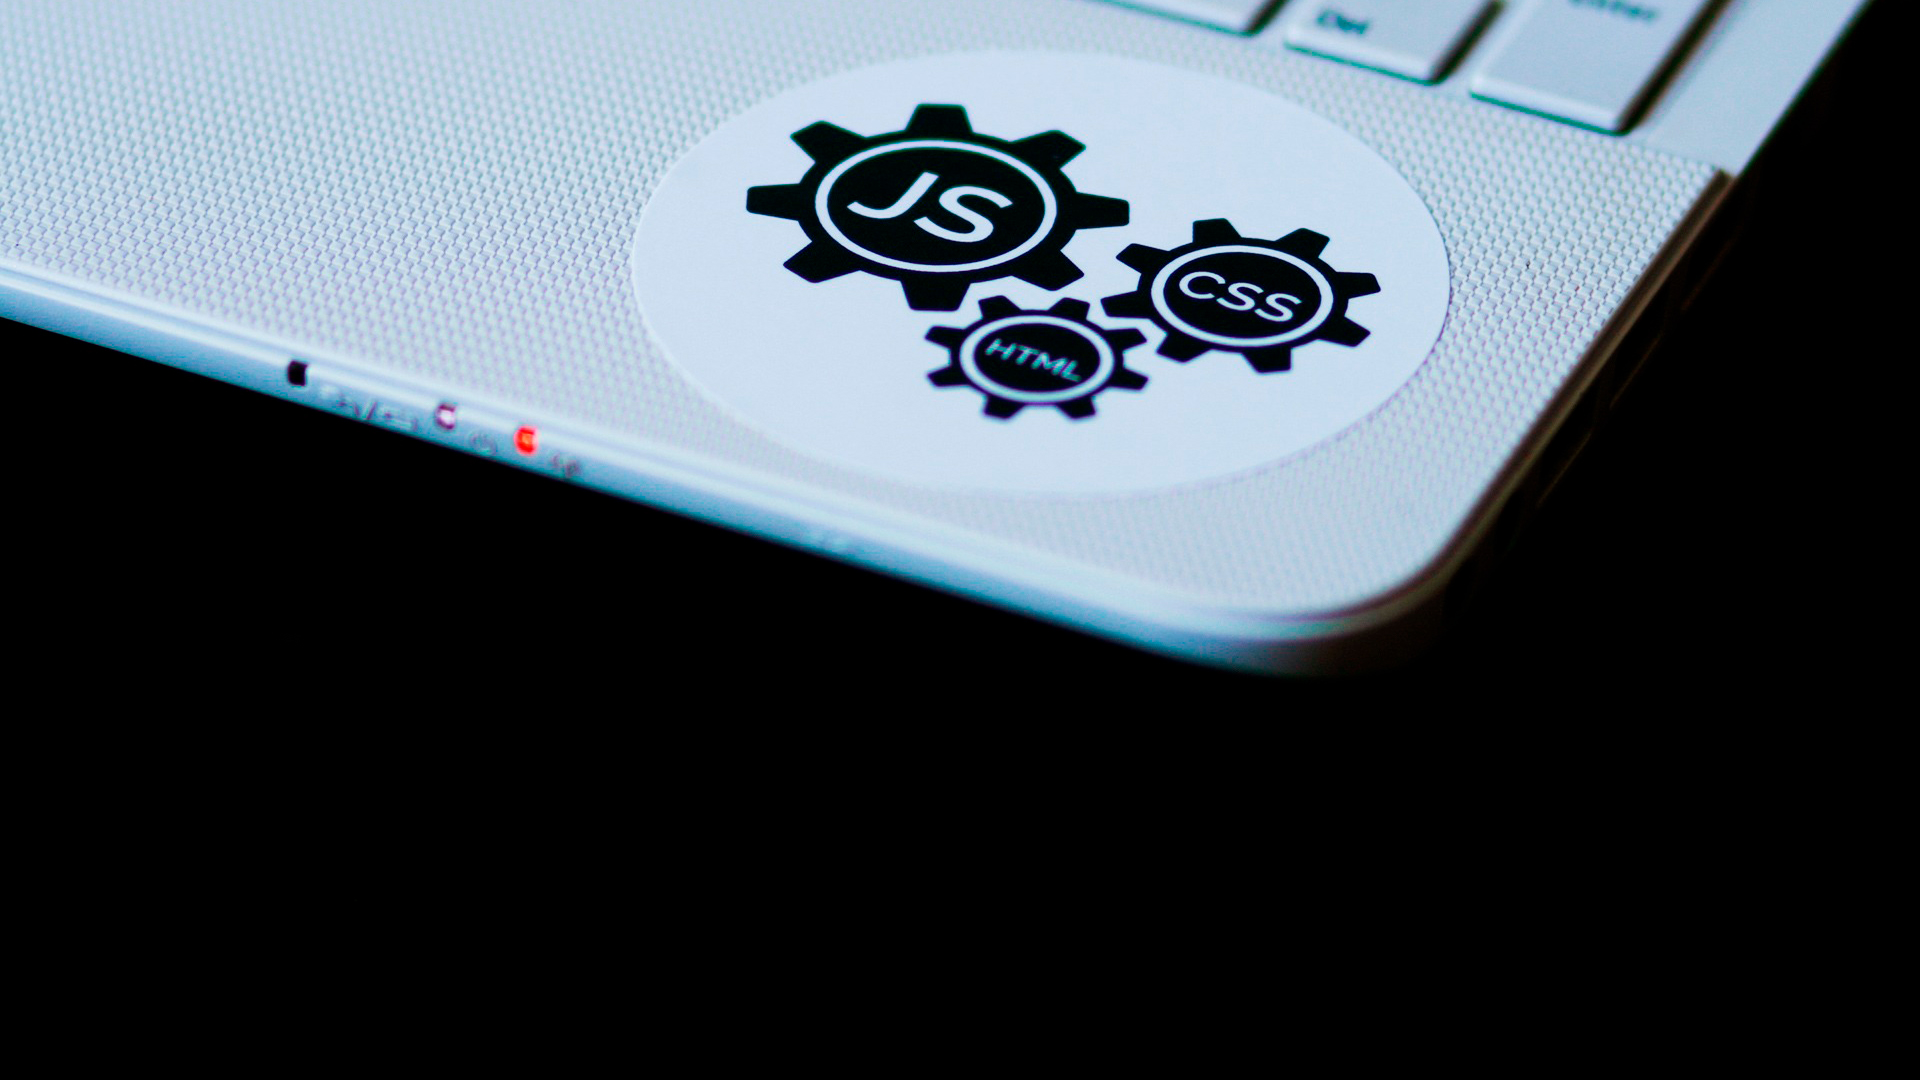
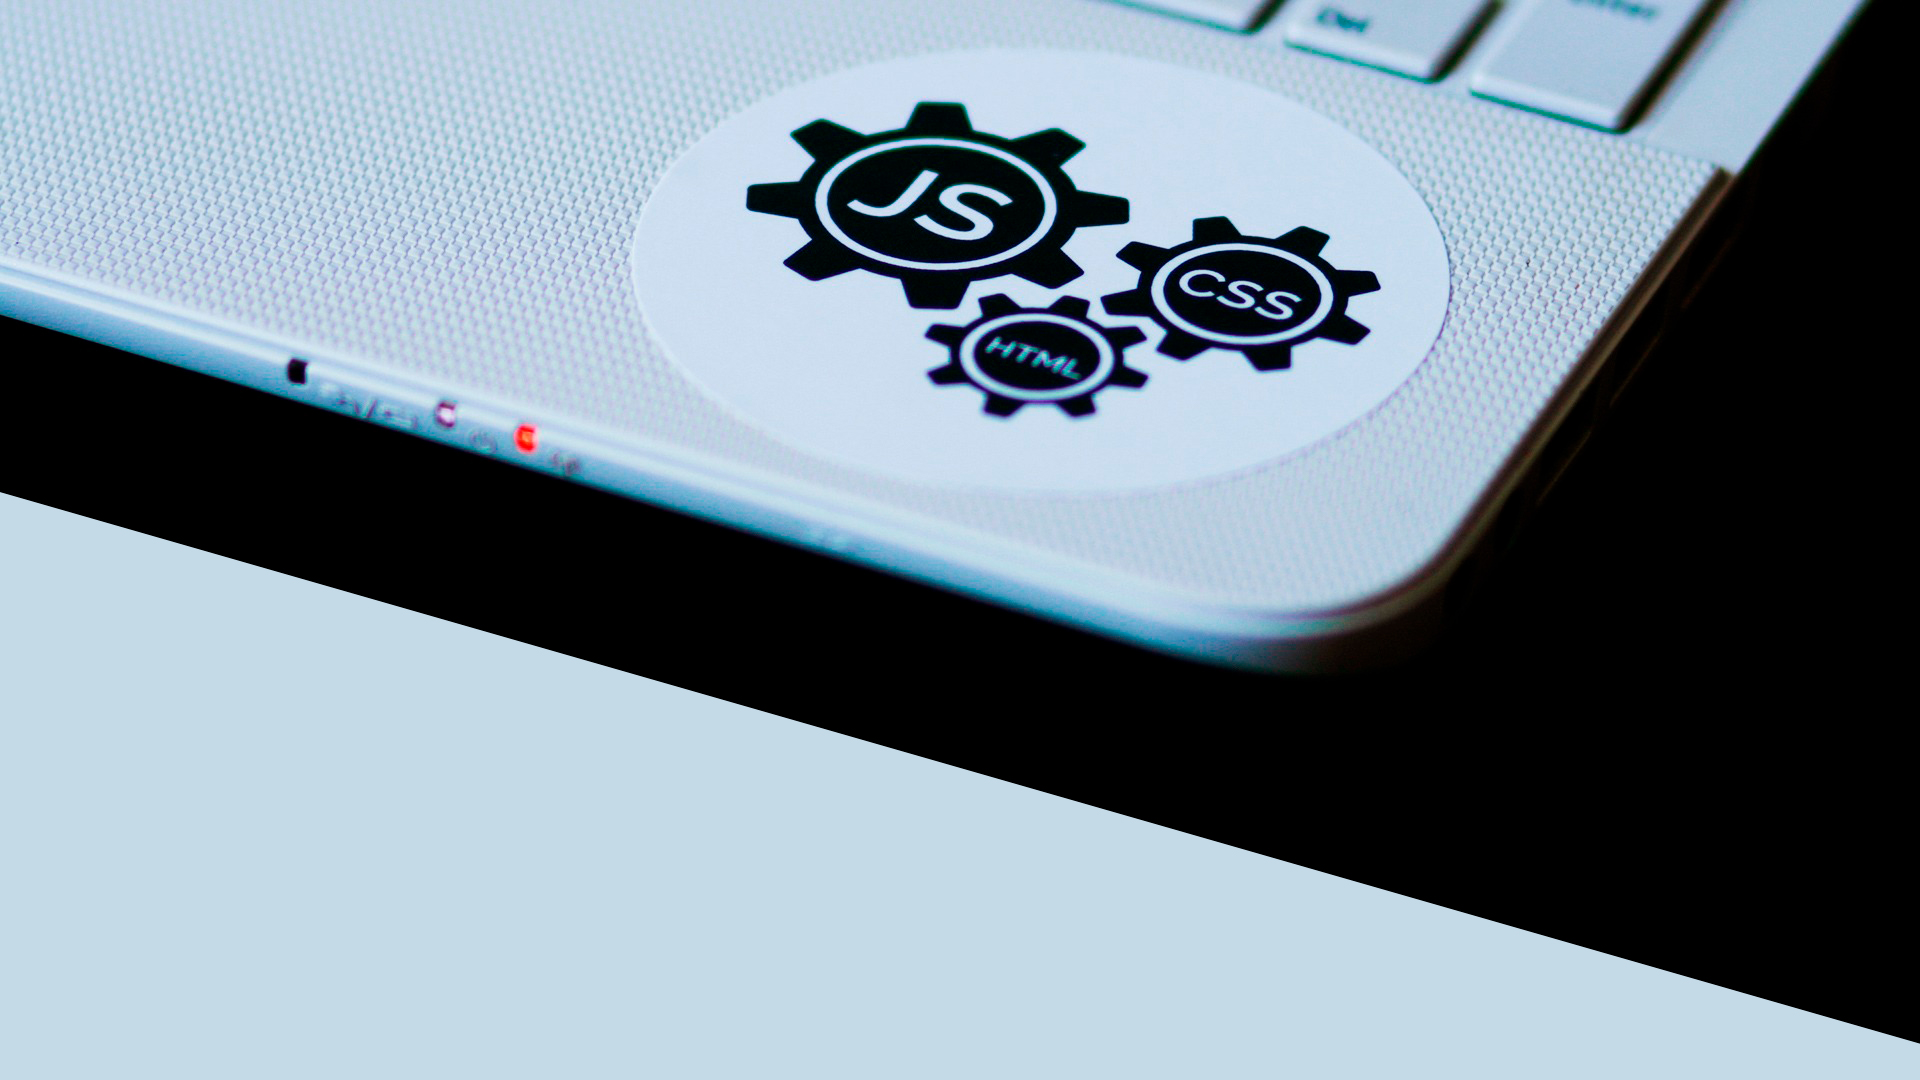
diagonal position

diff --git a/index.html b/index.html
@@ -15,17 +15,20 @@
 				<ul>
 					<li><a href="#" title="Hello World">LESSON 1</a></li>
 					<li><a href="https://didjridoo.github.io/Lesson_2/" title="Portfolio">LESSON 2</a></li>
-					<li><a href="#" title="CSS Dinner Shopping List">LESSON 3</a></li>
+					<li><a href="https://didjridoo.github.io/Lesson_3/" title="CSS Dinner Shopping List">LESSON 3</a></li>
 					<li><a href="#">LESSON 4</a></li>
 					<li><a href="https://didjridoo.github.io/Lesson_5/" title="CSS Weather Forecast">LESSON 5</a></li>
 					<li><a href="https://didjridoo.github.io/Lesson_6/" title="Search">LESSON 6</a></li>
 					<li><a href="https://didjridoo.github.io/Lesson_7/" title="Foliac">LESSON 7</a></li>
-				</ul>
-				
+					<li><a href="https://didjridoo.github.io/Lesson_8/" title="Foliac">LESSON 8</a></li>
+					<li><a href="https://didjridoo.github.io/Lesson_9/" title="Foliac">LESSON 9</a></li>
+				</ul>	
 			</nav>
 		</div>
-		
 	</header>
+	<footer class="main-footer">
+		<h1>MAYATSKIY VIACHESLAV</h1>
+	</footer>
 	
 </body>
 </html>

diff --git a/style.css b/style.css
@@ -1,12 +1,14 @@
 body {
    background: #FFF url("./img2.jpg") no-repeat 0 0;
+   box-sizing: border-box;
 }
 
 .main {
-   max-width: 1140px;
+   max-width: 100%;
    float: left;
-   padding-top: 470px;
-   padding-left: 20px;
+   padding-top: 560px;
+   padding-left: 15px;
+   padding-bottom: 0px;
 }
 
 .container li {
@@ -14,13 +16,12 @@ body {
    margin-right: 20px;
 }
 
-.container a {
+.container a { 
    text-decoration: none;
-   color: #fff;
+   color: #CCDDEF;
    font-family: 'Ubuntu', sans-serif;
-   font-size: 30px;
+   font-size: 32px;
    font-weight: 300;
-   
 }
 
 .menu-list ul {
@@ -34,4 +35,13 @@ body {
 
 .container ul li a:hover {
    color: #FE3C20;
+}
+
+.main-footer {
+   transform: rotate(16deg);
+   display: inline-block;
+   color: #000508;
+   font-family: 'Ubuntu', sans-serif;
+   font-size: 20px;
+   font-weight: 300;
 }
